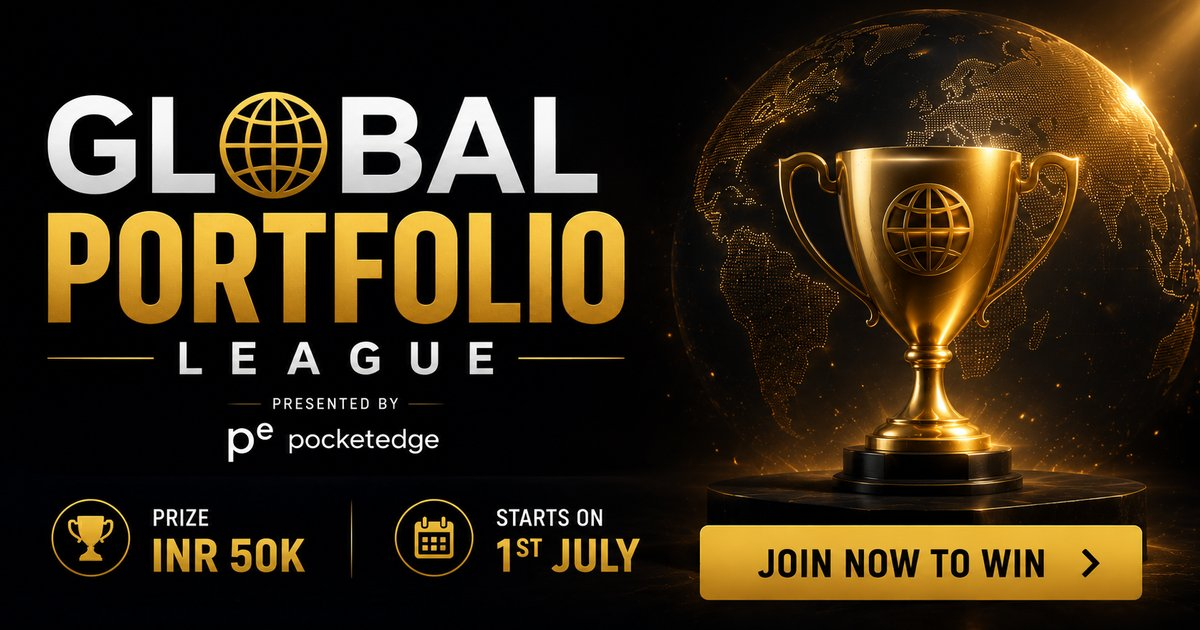
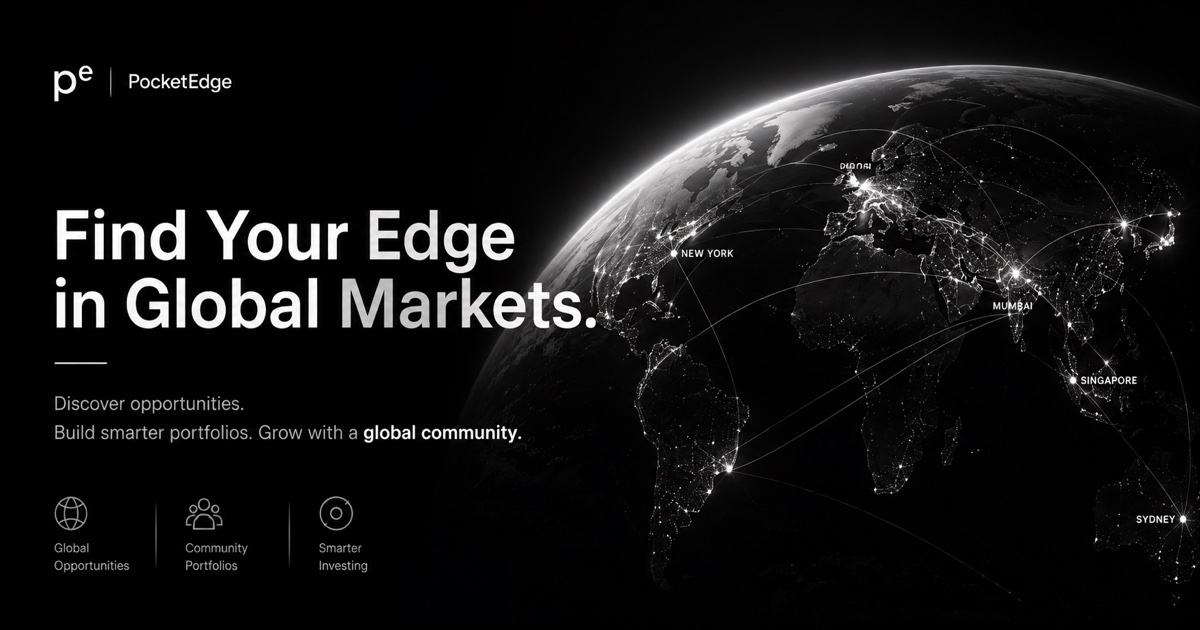
Update link preview image and share metadata.
Replace the OG image with the new global markets creative compressed to 164KB and align title and description with the updated branding.

diff --git a/index.html b/index.html
@@ -3,20 +3,20 @@
   <head>
     <meta charset="UTF-8" />
     <meta name="viewport" content="width=device-width, initial-scale=1.0" />
-    <title>PocketEdge — The Global Portfolio League</title>
+    <title>PocketEdge — Find Your Edge in Global Markets</title>
     <meta
       name="description"
-      content="Presented by pocketedge. Prize INR 50K. Starts 1st July. Join The Global Portfolio League now to win!"
+      content="Discover opportunities. Build smarter portfolios. Grow with a global community on PocketEdge."
     />
     <link rel="icon" type="image/png" href="/logo.png" />
 
     <!-- Open Graph (WhatsApp, iMessage, Slack, LinkedIn, etc.) -->
     <meta property="og:type" content="website" />
     <meta property="og:site_name" content="PocketEdge" />
-    <meta property="og:title" content="The Global Portfolio League" />
+    <meta property="og:title" content="Find Your Edge in Global Markets" />
     <meta
       property="og:description"
-      content="Presented by pocketedge. Prize INR 50K. Starts 1st July. Join now to win!"
+      content="Discover opportunities. Build smarter portfolios. Grow with a global community."
     />
     <meta property="og:url" content="https://www.pocketedge.in/" />
     <meta property="og:image" content="https://www.pocketedge.in/og-image.jpg" />
@@ -24,14 +24,14 @@
     <meta property="og:image:type" content="image/jpeg" />
     <meta property="og:image:width" content="1200" />
     <meta property="og:image:height" content="630" />
-    <meta property="og:image:alt" content="The Global Portfolio League — Prize INR 50K, starts 1st July" />
+    <meta property="og:image:alt" content="PocketEdge — Find Your Edge in Global Markets" />
 
     <!-- Twitter / X -->
     <meta name="twitter:card" content="summary_large_image" />
-    <meta name="twitter:title" content="The Global Portfolio League" />
+    <meta name="twitter:title" content="Find Your Edge in Global Markets" />
     <meta
       name="twitter:description"
-      content="Presented by pocketedge. Prize INR 50K. Starts 1st July. Join now to win!"
+      content="Discover opportunities. Build smarter portfolios. Grow with a global community."
     />
     <meta name="twitter:image" content="https://www.pocketedge.in/og-image.jpg" />
 

diff --git a/src/siteMeta.js b/src/siteMeta.js
@@ -2,9 +2,9 @@
 export const SITE_NAME = 'PocketEdge';
 export const SITE_URL = 'https://www.pocketedge.in';
 
-export const SHARE_TITLE = 'The Global Portfolio League';
+export const SHARE_TITLE = 'Find Your Edge in Global Markets';
 export const SHARE_DESCRIPTION =
-  'Presented by pocketedge. Prize INR 50K. Starts 1st July. Join now to win!';
+  'Discover opportunities. Build smarter portfolios. Grow with a global community.';
 
 export const SHARE_IMAGE_PATH = '/og-image.jpg';
 export const SHARE_IMAGE_URL = `${SITE_URL}${SHARE_IMAGE_PATH}`;